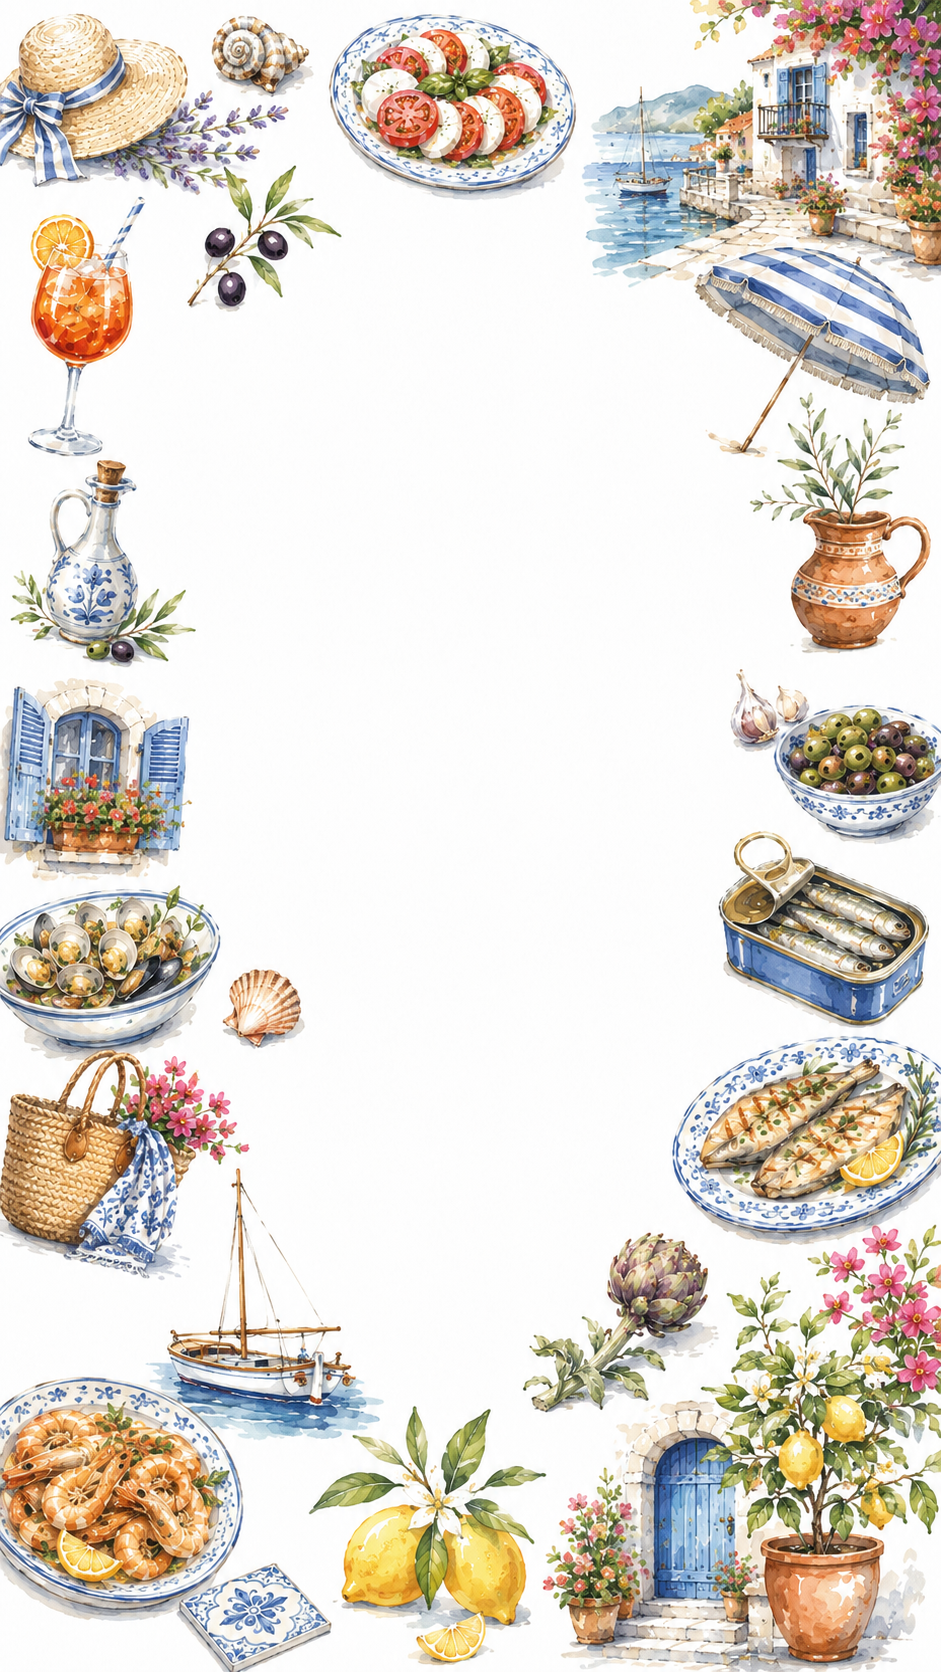
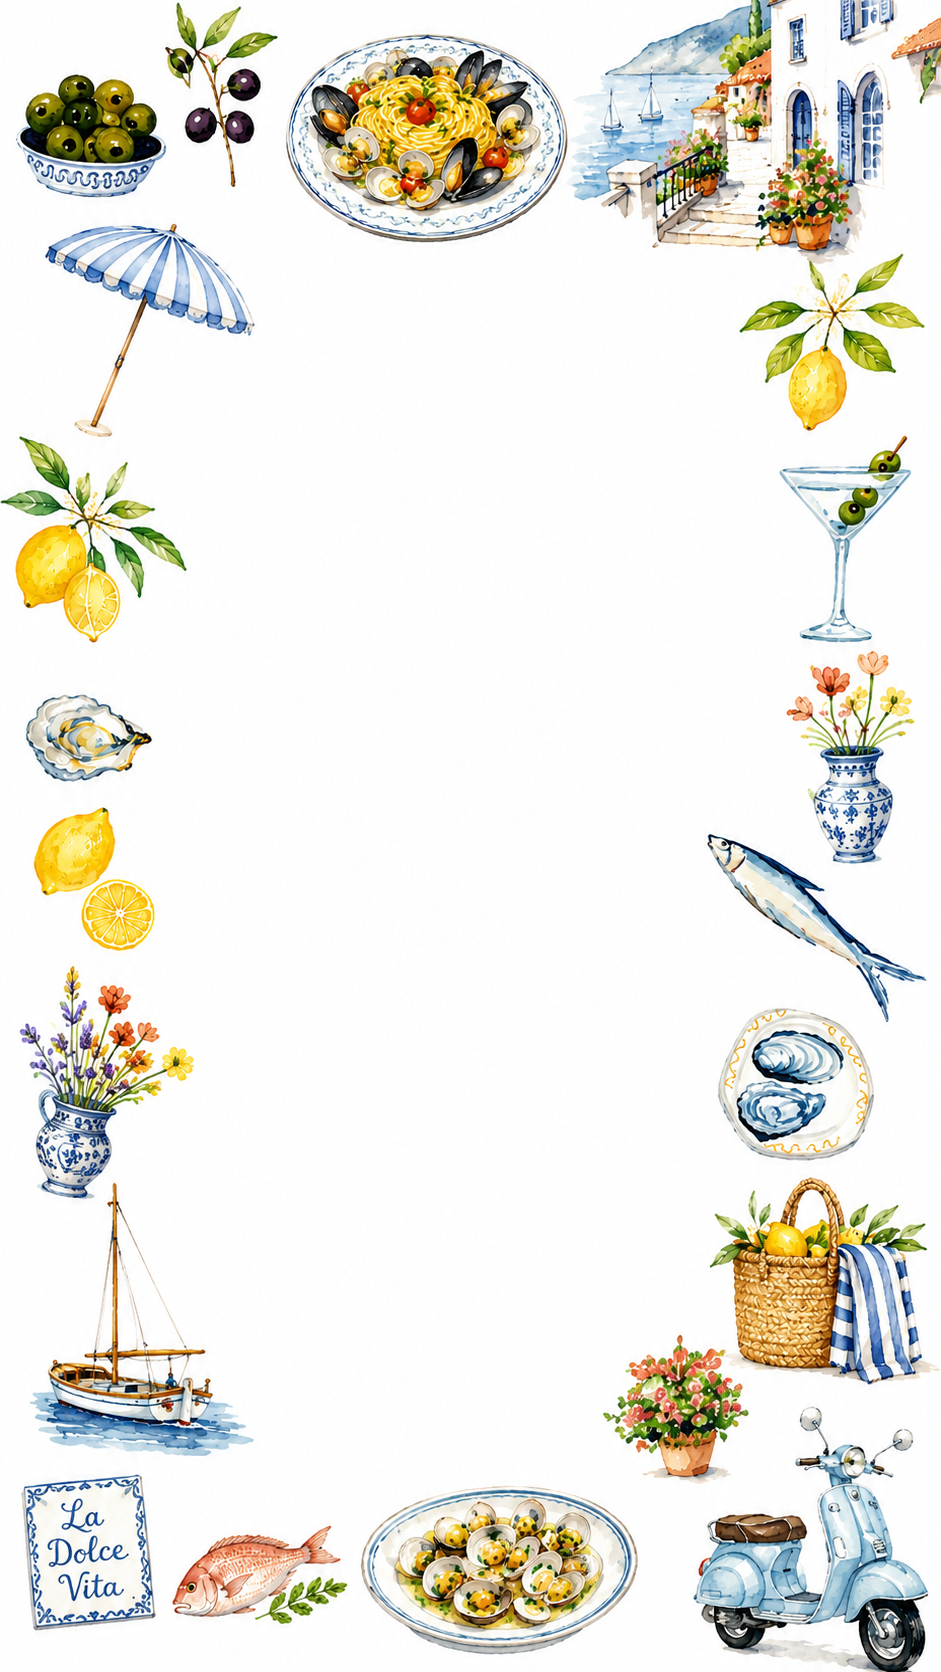
V 1.2.0

diff --git a/src/app/pages/menu/menu.html b/src/app/pages/menu/menu.html
@@ -7,7 +7,7 @@
     </div>
     <div class="grid">
         <div class="card active">
-            <img src="/immagini/pasta.jpg" alt="Pasta" />
+            <img src="/immagini/giorno.jpg" alt="Pasta" />
             <h2>Menu del Giorno</h2>
             <p>Template del menu quotidiano.</p>
             <button (click)="openMenu()">
@@ -15,20 +15,20 @@
             </button>                       
         </div>
          <div class="card disabled">
-            <img src="/immagini/pasta.jpg" alt="Pasta" />
-            <h2>Menu di Natale</h2>
-            <p>Coming soon</p>
+            <img src="/immagini/pesce.jpg" alt="Pasta" />
+            <h2>Menu di Ferragosto</h2>
+            <p>Template del menu di Ferragosto.</p>
             <button disabled>Coming soon</button>
         </div> 
 
-       <!-- <div class="card disabled">
+        <!-- <div class="card disabled">
             <div class="emoji">🐣</div>
             <h2>Menu di Pasqua</h2>
             <p>Coming soon</p>
             <button disabled>Coming soon</button>
         </div>
 
-        <div class="card disabled">
+         <div class="card disabled">
             <div class="emoji">❤</div>
             <h2>Menu Capodanno</h2>
             <p>Coming soon</p>
@@ -51,6 +51,14 @@
         <p class="subtitle">
             Scrivi un piatto e poi vai a capo. Ogni riga diventerà un punto del menu.
         </p>
+
+        <div
+            class="counter"
+            [class.limit]="getTotalRows() > 16">
+
+            Righe utilizzate: {{ getTotalRows() }}/16
+
+        </div>
 
         <div class="field">
             <label>Primi</label>
@@ -121,12 +129,12 @@
 <nav class="bottom-nav">
 
     <button class="active">
-        <i class="fa-solid fa-user"></i>
+        <i class="bi bi-house"></i>
         <span>Home</span>
     </button>
 
-    <button>
-        <i class="fa-solid fa-book"></i>
+    <button style="color: rgb(219, 218, 218);">
+        <i class="bi bi-clock-history"></i>
         <span>Storico Menu</span>
     </button>
 

diff --git a/src/app/pages/menu/menu.scss b/src/app/pages/menu/menu.scss
@@ -65,7 +65,8 @@ h1{
     height:140px;
     object-fit:cover;
     border-radius:16px;
-    margin-bottom:8px;
+    margin:0 auto 8px;
+    display:block;
 }
 .card h2{
     margin:20px 0 10px;
@@ -111,10 +112,18 @@ button{
     box-shadow:0 15px 40px rgba(0,0,0,.08);
 }
 .back{
-    border:none;
-    background:none;
+    border:gray 1px solid;
+    color:white;
+    background: #214e84;
     cursor:pointer;
     font-size:16px;
+    margin-bottom:20px;
+    border-radius:8px;
+    width:100px;
+    display:flex;
+    justify-content:center;
+    align-items:center;
+    margin-left:30%;
 }
 .editor-card h1{
     margin-bottom:5px;
@@ -187,7 +196,7 @@ textarea{
     bottom:20px;
     left:50%;
     transform:translateX(-50%);
-    width:390px;
+    width:320px;
     height:72px;
     background:rgba(255, 255, 255, 0.452);
     backdrop-filter:blur(20px);
@@ -223,5 +232,21 @@ textarea{
 .bottom-nav button.active{
 
     color:#214d84;
+
+}
+
+.counter{
+
+    text-align:right;
+    font-size:14px;
+    color:#666;
+    margin-top:15px;
+
+}
+
+.limit{
+
+    color:#d32f2f;
+    font-weight:bold;
 
 }

diff --git a/src/app/pages/menu/menu.ts b/src/app/pages/menu/menu.ts
@@ -36,4 +36,30 @@ export class MenuComponent {
   backToEditor() {
   this.currentView = 'editor';
 }
+
+getTotalRows(): number {
+
+  let totale = 0;
+
+  totale += this.countRows(this.primi);
+  totale += this.countRows(this.secondi);
+  totale += this.countRows(this.contorni);
+
+  if (this.mostraDolci) {
+    totale += this.countRows(this.dolci);
+  }
+
+  return totale;
+}
+
+countRows(text: string): number {
+
+  if (!text.trim()) {
+    return 0;
+  }
+
+  return text
+    .split('\n')
+    .filter(riga => riga.trim() !== '').length;
+}
 }

diff --git a/src/app/components/menu-preview/menu-preview.ts b/src/app/components/menu-preview/menu-preview.ts
@@ -39,6 +39,11 @@ export class MenuPreviewComponent implements OnInit {
     'immagini/sfondo-3.png',
     'immagini/sfondo-4.png',
     'immagini/sfondo-5.png',
+    'immagini/sfondo-7.png',
+    'immagini/sfondo-8.png',
+    'immagini/sfondo-9.png',
+    'immagini/sfondo-10.png',
+    'immagini/sfondo-11.png'
     
   ];
 

diff --git a/src/styles.css b/src/styles.css
@@ -1,0 +1,1 @@
+@import "bootstrap-icons/font/bootstrap-icons.css";
